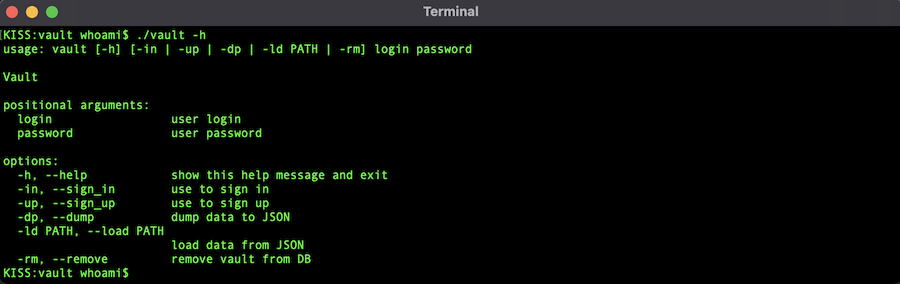
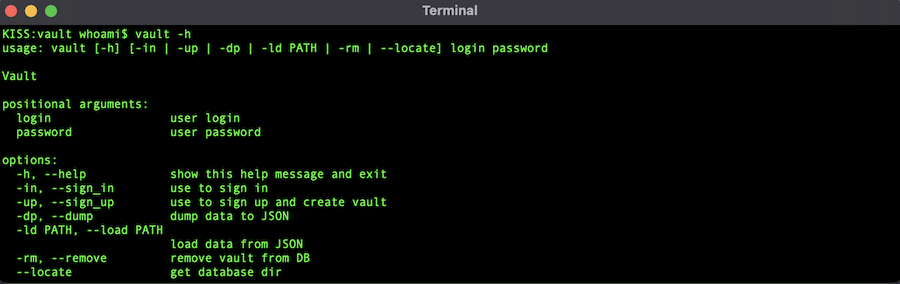
v0.5(appdirs)

diff --git a/vault.py b/vault.py
@@ -5,7 +5,7 @@
 VAULT
 """
 
-__version__ = 0.4
+__version__ = 0.5
 
 # vault.py
 
@@ -14,13 +14,13 @@ __version__ = 0.4
 
 # shiv -c vault -o vault --preamble preamble.py -r requirements.txt .
 
-# v0.45 password message and clear vault_data.db
-# v0.5 reset password with email? or with CLI?
-
-# v1.1 ui auth & ui load file
+# v0.6 show --locate in TUI
+# v0.7 reset password with email or with CLI
+# v1.0 TUI authentication & TUI --load
 
 import argparse
 import json
+import os
 import re
 import shelve
 import time
@@ -31,7 +31,7 @@ import crypto
 import errors as err
 import ui
 from settings import (
-    EMAIL_REGEXP, PASSWORD_REGEXP, VAULT_DB, VAULT_TITLE
+    EMAIL_REGEXP, PASSWORD_REGEXP, VAULT_DB, VAULT_DIR, VAULT_TITLE
 )
 
 
@@ -142,6 +142,9 @@ class Vault:
             del vault[self.key]
         print(f'Remove {self.name}: {self.encoder.decode(self.key)}')
 
+    def locate_database(self):
+        print(f'Locate {self.name} database dir: {VAULT_DIR}')
+
 
 def main():
     parser = argparse.ArgumentParser(description='Vault')
@@ -159,7 +162,7 @@ def main():
     )
     group.add_argument(
         '-up', '--sign_up', action='store_true',
-        help='use to sign up'
+        help='use to sign up and create vault'
     )
     group.add_argument(
         '-dp', '--dump', action='store_true',
@@ -173,8 +176,16 @@ def main():
         '-rm', '--remove', action='store_true',
         help='remove vault from DB'
     )
+    # info actions
+    group.add_argument(
+        '--locate', action='store_true',
+        help='get database dir'
+    )
 
     args = parser.parse_args()
+
+    if not os.path.isdir(VAULT_DIR):
+        os.mkdir(VAULT_DIR)
 
     vlt = Vault(VAULT_TITLE)
     if args.sign_up:
@@ -200,6 +211,11 @@ def main():
                     print(e)
             elif args.remove:
                 vlt.remove_data()
+            elif args.locate:
+                vlt.locate_database()
+            else:
+                parser.print_help()
+
         except err.LoginFailed as e:
             print(e)
 

diff --git a/setup.py b/setup.py
@@ -1,15 +1,15 @@
 from setuptools import setup, find_packages
 
-with open("README.md", 'r') as f:
+with open('README.md', 'r') as f:
     long_description = f.read()
 
 setup(
     name='Vault',
-    version='0.4',
+    version='0.5',
     description='Password manager',
     long_description=long_description,
-    long_description_content_type="text/markdown",
-    url="https://github.com/schwarzbox/Vault",
+    long_description_content_type='text/markdown',
+    url='https://github.com/schwarzbox/Vault',
     author='Alex Veledzimovich',
     author_email='veledz@gmail.com',
     license='MIT',
@@ -18,8 +18,8 @@ setup(
     ],
     packages=find_packages(),
     include_package_data=True,
-    install_requires=['cryptography', 'pyperclip', 'textual'],
-    python_requires='>=3.6',
+    install_requires=['cryptography', 'pyperclip', 'textual', 'appdirs'],
+    python_requires='>=3.8',
     entry_points={
         'console_scripts': ['vault=vault:main'],
     },

diff --git a/errors.py b/errors.py
@@ -26,8 +26,16 @@ class InvalidJSON(VaultException):
 
 
 class InvalidEmail(VaultException):
-    message = 'Please use valid email'
+    message = 'Use valid email'
 
 
 class InvalidPassword(VaultException):
-    message = 'Please use strong password'
+    help_messages = [
+        '- Minimum 8 characters',
+        '- The alphabets must be between [a-z]',
+        '- At least one alphabet should be of Upper Case [A-Z]',
+        '- At least 1 number or digit between [0-9]',
+        '- At least 1 character from [_-@$!%*#?&]'
+    ]
+    help_message = '\n'.join(help_messages)
+    message = f"Use strong password:\n{help_message}"

diff --git a/settings.py b/settings.py
@@ -1,6 +1,9 @@
 # vault.py
 
+from appdirs import user_data_dir
+
 VAULT_TITLE = 'Vault'
-VAULT_DB = 'vault_data'
+VAULT_DIR = user_data_dir(f'{VAULT_TITLE}DB', 'Alex Veledzimovich')
+VAULT_DB = f'{VAULT_DIR}/vault_data'
 EMAIL_REGEXP = r"([-!#-'*+/-9=?A-Z^-~]+(\.[-!#-'*+/-9=?A-Z^-~]+)*|\"([]!#-[^-~ \t]|(\\[\t -~]))+\")@([-!#-'*+/-9=?A-Z^-~]+(\.[-!#-'*+/-9=?A-Z^-~]+)*|\[[\t -Z^-~]*])"
-PASSWORD_REGEXP = r"(?=.*[a-z])(?=.*[A-Z])(?=.*\d)(?=.*[\_\-@$!%*#?&])[A-Za-z\d\_\-@$!#%*?&]{6,}$"
+PASSWORD_REGEXP = r"(?=.*[a-z])(?=.*[A-Z])(?=.*\d)(?=.*[\_\-@$!%*#?&])[A-Za-z\d\_\-@$!#%*?&]{8,}$"

diff --git a/README.md b/README.md
@@ -1,6 +1,6 @@
 # vault
 
-v0.4
+v0.5
 
 Command line password manager.
 
@@ -18,34 +18,55 @@ cd Vault-master
 python3 -m venv venv-shiv
 . venv-shiv/bin/activate
 pip3 install shiv
+# create executable in the current dir
 shiv -c vault -o vault --preamble preamble.py .
 deactivate
 # remove venv-shiv
 rm -rf venv-shiv
 ```
 
+# Move to /usr/local/bin
+
+You can move <strong>vault</strong> to /usr/local/bin for Mac and Linux OS.
+
+``` bash
+mv vault /usr/local/bin
+```
+
+After moving files you can remove Vault-master and Vault.zip.
+
+
 # First run
+
+```bash
+# run vault help
+vault -h
+```
 
 ![Screenshot](screenshot/screenshot2.png)
 
 ```bash
-# run vault help
-./vault -h
 # sign-up and create empty vault
-./vault av@gmail.com Vault-96 -up
-# load data to vault
-./vault av@gmail.com Vault-96 -ld <your.json>
-# sign-in
-./vault av@gmail.com Vault-96 -in
-```
-
-# Copy to /usr/local/bin
-
-After first run <strong>./vault</strong> you get <strong>vault_data.db</strong>.
-You can copy this files together to /usr/local/bin for MacOS and Linux.
-
-``` bash
-cp vault /usr/local/bin
-cp vault_data.db /usr/local/bin
+vault av@gmail.com Vault-96 -up
+# sign-in and check that vault is empty
 vault av@gmail.com Vault-96 -in
+# load data to vault and auto sign-in
+vault av@gmail.com Vault-96 -ld <your.json>
 ```
+
+# Database location
+
+Iternally <strong>vault</strong> use python package <strong>appdirs</strong> to determine where to save encrypted database. For MacOS it is "/Users/whoami/Library/Application Support/VaultDB" dir.
+
+```bash
+# get VaultDB location
+vault av@gmail.com Vault-96 --locate
+```
+
+# Next releases
+
+v0.6 show --locate in TUI
+
+v0.7 reset password with email or with CLI
+
+v1.0 TUI authentication & TUI --load
